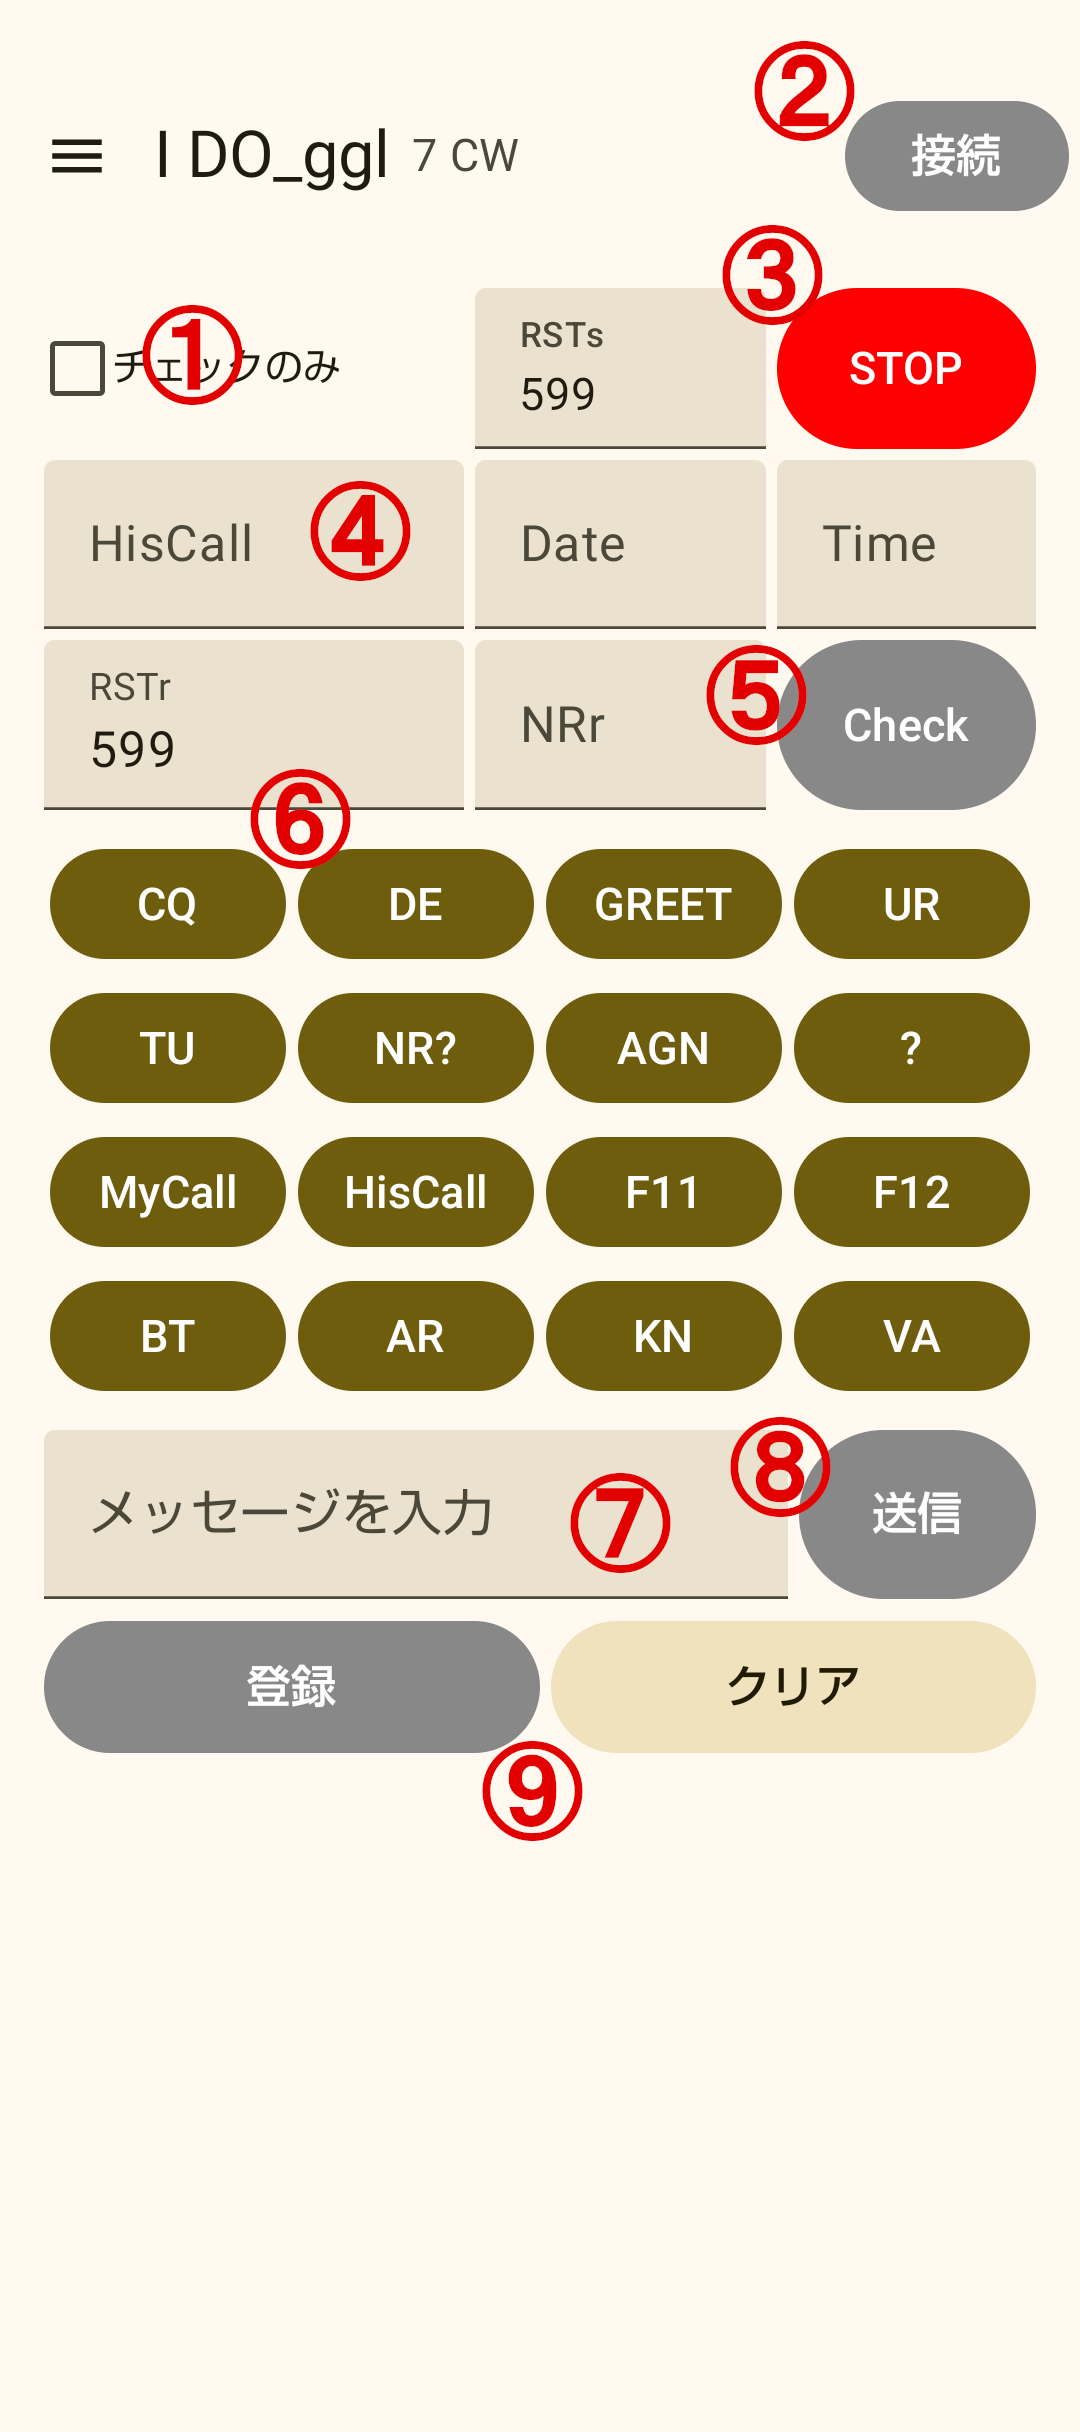
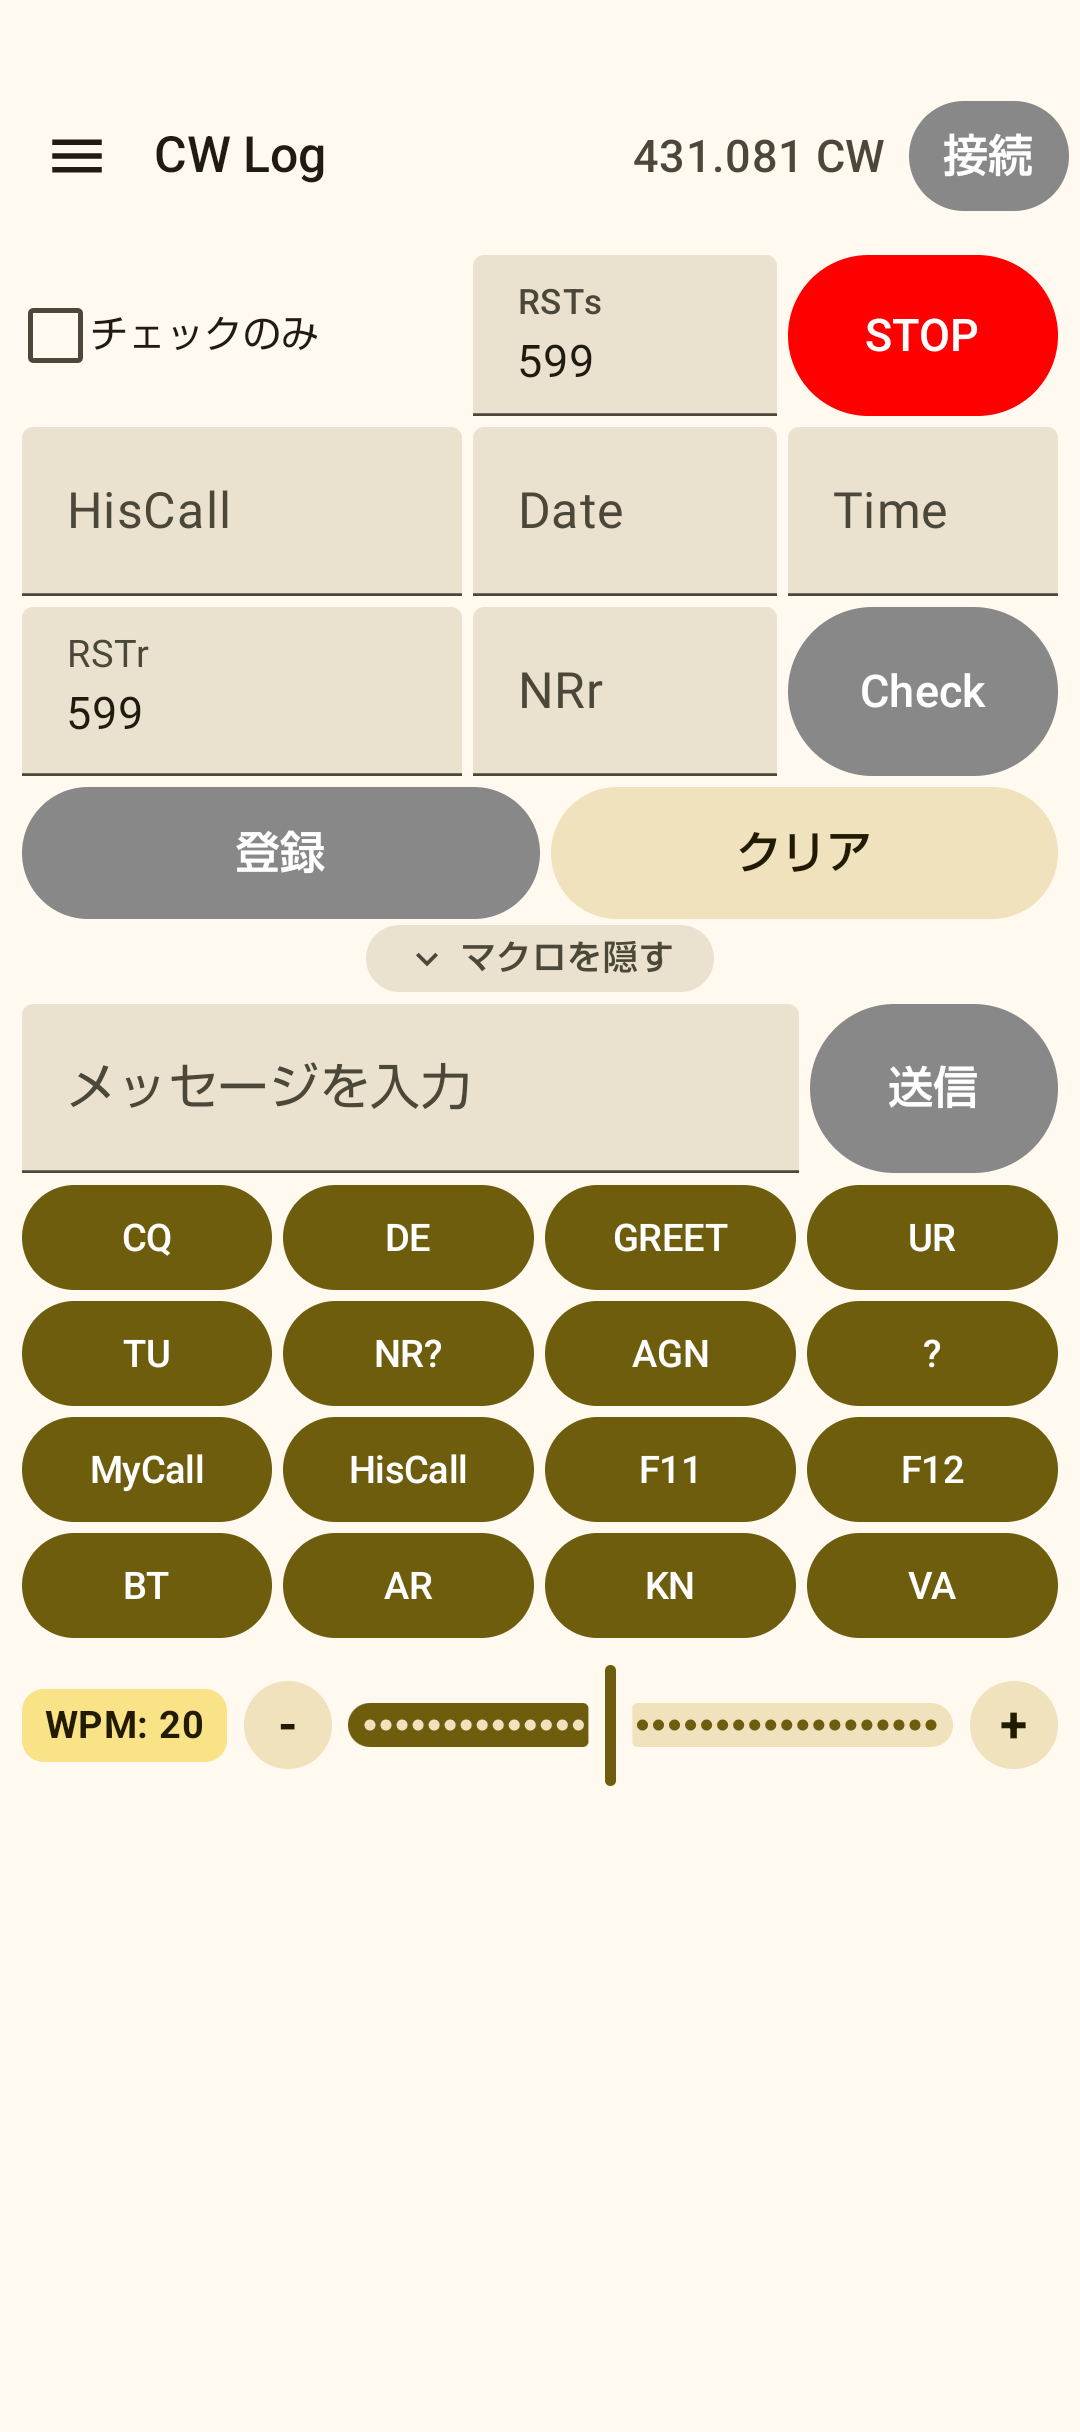
docs: マニュアルのエクスポートとCSVインポートを独立させ、会員名簿および交信ログ仕様を追加
- 3.5 エクスポートと 3.6 CSVインポートの各セクションを独立化
- 会員名簿CSVの取り込みとCheckボタン押下時の会員情報ヒット表示の説明を追加
- 会員名簿CSVおよびTurbo HAMLOG交信ログCSVのファイル仕様・列順を明記
- インポート画面スクリーンショット（import_screen.png）の追加と関連画像リソースの整理

diff --git a/docs/manual.html b/docs/manual.html
@@ -160,7 +160,7 @@
             <li><a href="#section-3-2">3.2 定型文設定画面</a></li>
             <li><a href="#section-3-3">3.3 メイン画面 (詳細)</a></li>
             <li><a href="#section-3-4">3.4 交信ログ画面</a></li>
-            <li><a href="#section-3-5">3.5 エクスポート画面</a></li>
+            <li><a href="#section-3-5">3.5 エクスポート</a></li>
             <li><a href="#section-3-6">3.6 CSVインポート</a></li>
           </ul>
         </li>
@@ -508,6 +508,7 @@
                     <li><strong>不確かなコール (?機能)</strong>: 末尾に <code>?</code> が付いている場合（例:
                       <code>JA1?</code>）はコールサイン＋？のみ送出して確認。
                     </li>
+                    <li><strong>会員名簿ヒット表示</strong>: 会員名簿CSVを取り込んでいる場合、該当する会員情報（お名前、コード、QTH、備考等）がヒットすると画面に表示。</li>
                     <li><strong>自動フォーカス移動</strong>: 自動的に受領レポート欄（RSTr）にカーソルが移動します。</li>
                   </ul>
                 </div>
@@ -781,13 +782,13 @@
         </div>
 
         <!-- ============================================================
-             3.5 & 3.6 エクスポート & インポート
+             3.5 エクスポート
              ============================================================ -->
         <div id="section-3-5" class="subsection">
           <h3 class="subsection-title">
-            <span style="color:var(--brand-blue);">3.5</span> エクスポート画面 & <span
-              style="color:var(--brand-blue);">3.6</span> CSVインポート
+            <span style="color:var(--brand-blue);">3.5</span> エクスポート (Export)
           </h3>
+          <p>端末内の交信ログをTurbo HAMLOG互換CSVや世界標準ADIF形式で外部ファイルに出力する画面です。</p>
 
           <div class="screen-layout-split">
             <!-- App Screen Real Screenshot for Export -->
@@ -806,33 +807,82 @@
               </div>
             </div>
 
-            <!-- Export and Import Feature Description Cards -->
-            <div class="screen-showcase-grid" style="margin:0;">
-              <div class="screen-card">
-                <div class="screen-card-header">
-                  <h4>📁 エクスポート機能 (Export)</h4>
-                </div>
-                <div class="screen-card-body">
-                  <ul style="padding-left:18px; line-height:1.7;">
-                    <li><strong>Turbo HAMLOG互換CSV</strong>: Shift-JIS形式で出力され、PCのHAMLOGにそのまま取り込み可能。</li>
-                    <li><strong>世界標準ADIF形式 (.adi)</strong>: LoTW、eQSL、各種アワード申請、他のログソフトで使用できるUTF-8標準形式。</li>
-                    <li><strong>安全なフィルター機能</strong>: 「インポート済みデータを除外」「エクスポート済みデータを除外」をチェックすることで二重出力を完全防止。</li>
-                    <li><strong>日付指定出力</strong>: 運用日ごとにチェックを入れて必要なログのみをファイル出力。</li>
-                  </ul>
-                </div>
+            <!-- Features Cards for Export -->
+            <div class="card-grid" style="margin:0;">
+              <div class="feature-card">
+                <h3>Turbo HAMLOG互換CSV</h3>
+                <p>Shift-JIS形式で出力され、PCのTurbo HAMLOGにそのまま取り込み可能です。</p>
               </div>
+              <div class="feature-card">
+                <h3>世界標準ADIF形式 (.adi)</h3>
+                <p>LoTW、eQSL、各種アワード申請、他のログソフト等で利用できるUTF-8標準形式で出力します。</p>
+              </div>
+              <div class="feature-card">
+                <h3>二重出力防止フィルター</h3>
+                <p>「インポート済みデータを除外」「エクスポート済みデータを除外」をチェックすることで、同一ログの二重出力を確実に防止できます。</p>
+              </div>
+              <div class="feature-card">
+                <h3>日付指定エクスポート</h3>
+                <p>運用日ごとにチェックを入れて、必要な運用日のログだけを選択してファイル出力できます。</p>
+              </div>
+            </div>
+          </div>
+        </div>
 
-              <div class="screen-card">
-                <div class="screen-card-header">
-                  <h4>📥 CSVインポート機能 (Import CSV)</h4>
-                </div>
-                <div class="screen-card-body">
-                  <ul style="padding-left:18px; line-height:1.7;">
-                    <li>Turbo HAMLOGから出力したCSVファイル（Shift-JIS）を選択して端末内に取り込み可能。</li>
-                    <li><strong>自動重複スキップ</strong>: 同一局・同一日・同一バンド・同一モードの交信は自動で検出され、重複登録を防止します。</li>
-                    <li>過去のログを取り込んでおくことで、移動運用中のB4チェック（交信済み判定）が極めて強力になります。</li>
-                  </ul>
-                </div>
+        <!-- ============================================================
+             3.6 CSVインポート
+             ============================================================ -->
+        <div id="section-3-6" class="subsection">
+          <h3 class="subsection-title">
+            <span style="color:var(--brand-blue);">3.6</span> CSVインポート (Import CSV)
+          </h3>
+          <p>Turbo HAMLOG等から書き出した交信ログや、クラブ等の会員名簿CSVをアプリ内に取り込む画面です。インポート種別（会員名簿 / 交信ログ）を選択して取り込みます。</p>
+
+          <div class="screen-layout-split">
+            <!-- App Screen Real Screenshot for Import -->
+            <div class="phone-mockup-wrapper">
+              <div class="phone-mockup">
+                <div class="phone-notch"></div>
+                <img src="images/import_screen.png" alt="CW Log CSVインポート画面" class="phone-screen-img zoomable-img"
+                  title="クリックして拡大">
+              </div>
+              <div class="phone-hint">
+                <svg width="14" height="14" viewBox="0 0 24 24" fill="none" stroke="currentColor" stroke-width="2">
+                  <circle cx="11" cy="11" r="8"></circle>
+                  <line x1="21" y1="21" x2="16.65" y2="16.65"></line>
+                </svg>
+                クリックで拡大表示
+              </div>
+            </div>
+
+            <!-- Features Cards for Import -->
+            <div class="card-grid" style="margin:0;">
+              <div class="feature-card">
+                <h3>会員名簿CSVの取り込み ＆ Checkヒット表示</h3>
+                <p>自作の会員名簿CSVを作成・インポートしておくことで、メイン画面で相手局のコールサインを入力して<strong>「Check」ボタンをタップした際、名簿にヒットすると画面上に会員情報（Name, Code, QTH, Remarks）が瞬時に表示</strong>されます。クラブ員や記念アワード対象局の判別に威力を発揮します。</p>
+              </div>
+              <div class="feature-card">
+                <h3>会員名簿CSVの作成仕様</h3>
+                <p>カンマ区切りのテキスト形式で以下の列順で作成します：<br>
+                  <code>Callsign, Name, Code, QTH, Remarks</code><br>
+                  例: <code>JA1ABC,TARO,1001,東京都千代田区,クラブ員</code><br>
+                  ※画面下の「ファイルを選択してインポート」から読み込み、「会員データをクリア」でいつでもリセット可能です。
+                </p>
+              </div>
+              <div class="feature-card">
+                <h3>Turbo HAMLOG 交信ログの取り込み</h3>
+                <p>インポート種別を「交信ログ (csv)」に切り替えることで、Turbo HAMLOG等から出力した過去ログ（Shift-JIS形式）を取り込めます。同一局・同一日・同一バンド・同一モードの重複データは自動スキップされます。</p>
+              </div>
+              <div class="feature-card">
+                <h3>交信ログCSVのファイル仕様</h3>
+                <p>Turbo HAMLOG標準のCSVエクスポート形式（Shift-JIS / カンマ区切り）に対応しています：<br>
+                  <code>Callsign, Date, Time, RSTs, RSTr, Freq/Band, Mode, Code, GL, QSL, Name, QTH, Remarks1, Remarks2</code><br>
+                  ※Turbo HAMLOGの「オプション」→「データ移行」→「CSVファイルへ出力」で書き出したファイルや、本アプリからエクスポートしたTurbo HAMLOG互換CSVをそのまま指定して取り込めます。
+                </p>
+              </div>
+              <div class="feature-card">
+                <h3>移動運用のB4チェックをサポート</h3>
+                <p>事前に過去ログを取り込んでおくことで、電波の届かない山頂や移動先などの完全オフライン環境でも、即座に重複交信（B4判定）が行えます。</p>
               </div>
             </div>
           </div>
